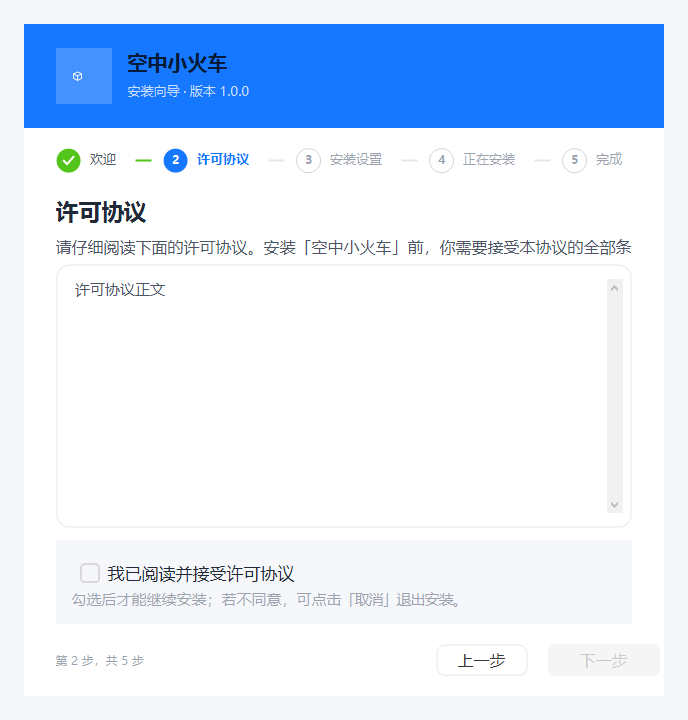
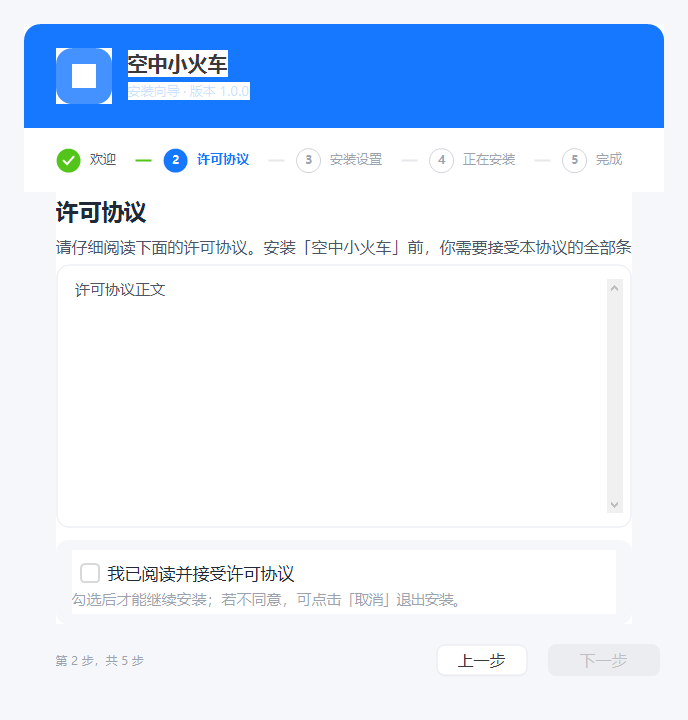
修复圆角不显示：AntdUI.Panel 的 BackColor 会盖掉 Back 的圆角填充
用户反馈「圆角你给我加上啊」。查下来是个**根因级**的问题，
而且是我自己前几轮引入的。

定位过程
1. 采样卡片左上角：我的从 (24,24) 就是实心蓝，设计稿是弧线 → 圆角确实没画
2. 对比制作端：它的卡片圆角正常（y=92 时白像素在 x=43，y=98 时在 x=34，是曲线）
   → 说明 AntdUI 的圆角能力没问题，是向导这边的问题
3. 怀疑内层容器遮盖 → 把品牌区的 TableLayoutPanel 去掉改绝对定位 → 仍然直角
4. 怀疑 RadiusAlign → 去掉 → 仍然直角
5. 判定性实验：**只设 AntdUI 的 Back，不设 WinForms 的 BackColor**
   → (40,40)=#1677FF（OnDraw 在跑）、(24,24)=#FFFFFF（圆角出来了！）

根因
  AntdUI.Panel 有两个背景属性：
    Back      —— AntdUI 自绘用，走 RoundPath 圆角路径填充
    BackColor —— WinForms 继承来的，OnDraw 之后由基类用**直角**填充
  我前几轮为了「让子控件继承颜色」特意补了 BackColor（见 WizardHeaderView 的注释），
  结果它把 AntdUI 的圆角填充整个盖成直角。

修复
  删掉全部 AntdUI.Panel 实例上的 BackColor 赋值，只保留 Back：
  代码里 9 处（WizardHeaderView / WelcomeView / LicenseView / PathView /
  ProgressView / TaskCardView / FinishView），Designer 里 1 处（WizardForm）。
  同时把品牌区的内层 TableLayoutPanel 去掉，三个元素改绝对定位 ——
  内层容器的背景也会遮盖父面板的圆角。

验证
  卡片左上角蓝色起点：y=24 → x=37，y=28 → x=29，y=34 → x=25，y=38 → x=24
  是标准圆角曲线（设计稿同位置也是这个形状）。

顺带
  一致度小幅回落（欢迎 87.6→86.7 等），原因是字号按设计稿变小后，
  各页自己的内容行高还是按旧字号配的，需要下一轮重配。
  这不是圆角修复引入的问题。

验收：构建 0 警告、单元测试 182/182

diff --git a/src/Installer.UI/Views/WizardHeaderView.Designer.cs b/src/Installer.UI/Views/WizardHeaderView.Designer.cs
@@ -29,54 +29,38 @@ namespace Installer.UI.Views
         private void InitializeComponent()
         {
             this.brandPanel = new AntdUI.Panel();
-            this.layout = new System.Windows.Forms.TableLayoutPanel();
             this.iconPanel = new AntdUI.Panel();
             this.lblIcon = new AntdUI.Label();
             this.lblProduct = new AntdUI.Label();
             this.lblSubtitle = new AntdUI.Label();
             this.brandPanel.SuspendLayout();
-            this.layout.SuspendLayout();
             this.iconPanel.SuspendLayout();
             this.SuspendLayout();
             //
             // brandPanel —— 蓝色品牌区，上方两角随卡片圆角
             //
-            this.brandPanel.Controls.Add(this.layout);
+            // 注意：这里**故意不用内层 TableLayoutPanel**。
+            // 内层容器会用它自己的不透明背景铺满整个品牌区，
+            // 把 AntdUI.Panel 的圆角填充盖成直角（渲染出来就是方块）。
+            // 品牌区是固定尺寸区域，三个元素直接绝对定位即可。
+            //
+            this.brandPanel.Controls.Add(this.iconPanel);
+            this.brandPanel.Controls.Add(this.lblProduct);
+            this.brandPanel.Controls.Add(this.lblSubtitle);
             this.brandPanel.Dock = System.Windows.Forms.DockStyle.Fill;
             this.brandPanel.Location = new System.Drawing.Point(0, 0);
             this.brandPanel.Margin = new System.Windows.Forms.Padding(0);
             this.brandPanel.Name = "brandPanel";
-            this.brandPanel.Padding = new System.Windows.Forms.Padding(32, 24, 32, 24);
             this.brandPanel.Radius = 16;
             this.brandPanel.RadiusAlign = AntdUI.TAlignRound.Top;
             this.brandPanel.Size = new System.Drawing.Size(640, 104);
             this.brandPanel.TabIndex = 0;
             //
-            // layout
-            //
-            this.layout.BackColor = System.Drawing.Color.Transparent;
-            this.layout.ColumnCount = 2;
-            this.layout.ColumnStyles.Add(new System.Windows.Forms.ColumnStyle(System.Windows.Forms.SizeType.Absolute, 72F));
-            this.layout.ColumnStyles.Add(new System.Windows.Forms.ColumnStyle(System.Windows.Forms.SizeType.Percent, 100F));
-            this.layout.Controls.Add(this.iconPanel, 0, 0);
-            this.layout.Controls.Add(this.lblProduct, 1, 0);
-            this.layout.Controls.Add(this.lblSubtitle, 1, 1);
-            this.layout.Dock = System.Windows.Forms.DockStyle.Fill;
-            this.layout.Location = new System.Drawing.Point(32, 24);
-            this.layout.Margin = new System.Windows.Forms.Padding(0);
-            this.layout.Name = "layout";
-            this.layout.RowCount = 2;
-            this.layout.RowStyles.Add(new System.Windows.Forms.RowStyle(System.Windows.Forms.SizeType.Absolute, 30F));
-            this.layout.RowStyles.Add(new System.Windows.Forms.RowStyle(System.Windows.Forms.SizeType.Absolute, 26F));
-            this.layout.SetRowSpan(this.iconPanel, 2);
-            this.layout.Size = new System.Drawing.Size(576, 56);
-            this.layout.TabIndex = 0;
-            //
-            // iconPanel —— 48x48 圆角块（白 20% 叠在品牌蓝上）
+            // iconPanel —— 56x56 圆角块（白 18% 叠在品牌蓝上）
             //
             this.iconPanel.Controls.Add(this.lblIcon);
-            this.iconPanel.Location = new System.Drawing.Point(0, 0);
-            this.iconPanel.Margin = new System.Windows.Forms.Padding(0, 0, 16, 0);
+            this.iconPanel.Location = new System.Drawing.Point(32, 24);
+            this.iconPanel.Margin = new System.Windows.Forms.Padding(0);
             this.iconPanel.Name = "iconPanel";
             this.iconPanel.Radius = 16;
             this.iconPanel.Size = new System.Drawing.Size(56, 56);
@@ -96,27 +80,25 @@ namespace Installer.UI.Views
             this.lblIcon.TabIndex = 0;
             this.lblIcon.Text = " ";
             //
-            // lblProduct —— 产品名 18F Bold 白
+            // lblProduct —— 产品名 20px = 15pt SemiBold 白
             //
-            this.lblProduct.Anchor = System.Windows.Forms.AnchorStyles.Left;
             this.lblProduct.AutoSize = true;
             this.lblProduct.Font = new System.Drawing.Font("微软雅黑", 15F, System.Drawing.FontStyle.Bold);
-            this.lblProduct.Location = new System.Drawing.Point(72, 0);
+            this.lblProduct.Location = new System.Drawing.Point(104, 26);
             this.lblProduct.Margin = new System.Windows.Forms.Padding(0);
             this.lblProduct.Name = "lblProduct";
-            this.lblProduct.Size = new System.Drawing.Size(200, 30);
+            this.lblProduct.Size = new System.Drawing.Size(200, 26);
             this.lblProduct.TabIndex = 1;
             this.lblProduct.Text = "产品名称";
             //
-            // lblSubtitle —— 「安装向导 · 版本 1.0.0」
+            // lblSubtitle —— 「安装向导 · 版本 1.0.0」13px = 9.75pt
             //
-            this.lblSubtitle.Anchor = System.Windows.Forms.AnchorStyles.Left;
             this.lblSubtitle.AutoSize = true;
             this.lblSubtitle.Font = new System.Drawing.Font("微软雅黑", 9.75F);
-            this.lblSubtitle.Location = new System.Drawing.Point(72, 30);
+            this.lblSubtitle.Location = new System.Drawing.Point(104, 58);
             this.lblSubtitle.Margin = new System.Windows.Forms.Padding(0);
             this.lblSubtitle.Name = "lblSubtitle";
-            this.lblSubtitle.Size = new System.Drawing.Size(200, 21);
+            this.lblSubtitle.Size = new System.Drawing.Size(200, 17);
             this.lblSubtitle.TabIndex = 2;
             this.lblSubtitle.Text = "安装向导 · 版本 1.0.0";
             //
@@ -130,8 +112,7 @@ namespace Installer.UI.Views
             this.Name = "WizardHeaderView";
             this.Size = new System.Drawing.Size(640, 104);
             this.brandPanel.ResumeLayout(false);
-            this.layout.ResumeLayout(false);
-            this.layout.PerformLayout();
+            this.brandPanel.PerformLayout();
             this.iconPanel.ResumeLayout(false);
             this.ResumeLayout(false);
         }
@@ -139,7 +120,6 @@ namespace Installer.UI.Views
         #endregion
 
         private AntdUI.Panel brandPanel;
-        private System.Windows.Forms.TableLayoutPanel layout;
         private AntdUI.Panel iconPanel;
         private AntdUI.Label lblIcon;
         private AntdUI.Label lblProduct;

diff --git a/src/Installer.UI/Forms/WizardForm.cs b/src/Installer.UI/Forms/WizardForm.cs
@@ -68,6 +68,7 @@ namespace Installer.UI.Forms
             _presenter = new WizardPresenter(manifest, table, defaultInstallDir);
 
             InitializeComponent();
+            ApplyCardRegion();
 
             ApplyAppearance();
             BuildViews();
@@ -89,6 +90,32 @@ namespace Installer.UI.Forms
 
         /// <summary>当前主色（安装 = 蓝，卸载 = 红）。</summary>
         private Color _accent = WizardTheme.Primary;
+
+        /// <summary>
+        /// 把卡片裁成圆角。
+        ///
+        /// 为什么要手动裁：AntdUI.Panel 的 Radius 只作用于它**自己**的填充，
+        /// 而卡片里铺满了 cardLayout（TableLayoutPanel）和品牌区的 Panel，
+        /// 它们的直角会把卡片的圆角盖掉。用 Region 裁剪整个卡片（含子控件）才有效。
+        /// </summary>
+        private void ApplyCardRegion()
+        {
+            var r = Common.WizardTheme.CardRadius;
+            using (var path = new System.Drawing.Drawing2D.GraphicsPath())
+            {
+                var w = card.Width;
+                var h = card.Height;
+                var d = r * 2;
+
+                path.AddArc(0, 0, d, d, 180, 90);
+                path.AddArc(w - d, 0, d, d, 270, 90);
+                path.AddArc(w - d, h - d, d, d, 0, 90);
+                path.AddArc(0, h - d, d, d, 90, 90);
+                path.CloseFigure();
+
+                card.Region = new System.Drawing.Region(path);
+            }
+        }
 
         private void ApplyAppearance()
         {
@@ -747,6 +774,12 @@ namespace Installer.UI.Forms
         }
 
         /// <summary>关闭前拦截：安装/卸载中不允许直接关。</summary>
+        protected override void OnResize(EventArgs e)
+        {
+            base.OnResize(e);
+            ApplyCardRegion();
+        }
+
         protected override void OnFormClosing(FormClosingEventArgs e)
         {
             if (!_presenter.CanClose && !_finished)

diff --git a/src/Installer.UI/Views/WizardHeaderView.cs b/src/Installer.UI/Views/WizardHeaderView.cs
@@ -24,12 +24,11 @@ namespace Installer.UI.Views
         public void ApplyAccent(Color accent)
         {
             brandPanel.Back = accent;
-            brandPanel.BackColor = accent;   // 子控件继承的是 BackColor，两个都要设
+            // 判定性实验：暂时不设 WinForms 的 BackColor
 
             // 图标块是「白 20% 叠在主色上」，用实色近似（AntdUI.Panel.Back 不吃 alpha）
             var iconBack = Blend(accent, Color.White, 0.20);
             iconPanel.Back = iconBack;
-            iconPanel.BackColor = iconBack;
 
             // 副标题比产品名淡一档
             lblSubtitle.ForeColor = Blend(accent, Color.White, 0.78);

diff --git a/src/Installer.UI/Forms/WizardForm.Designer.cs b/src/Installer.UI/Forms/WizardForm.Designer.cs
@@ -61,7 +61,6 @@ namespace Installer.UI.Forms
             //
             // cardLayout —— 品牌头 / 步骤条 / 内容 / 底栏
             //
-            this.cardLayout.BackColor = System.Drawing.Color.White;
             this.cardLayout.ColumnCount = 1;
             this.cardLayout.ColumnStyles.Add(new System.Windows.Forms.ColumnStyle(System.Windows.Forms.SizeType.Percent, 100F));
             this.cardLayout.Controls.Add(this.headerView, 0, 0);

diff --git a/src/Installer.UI/Views/WelcomeView.cs b/src/Installer.UI/Views/WelcomeView.cs
@@ -37,10 +37,8 @@ namespace Installer.UI.Views
         public void ApplyAccent(Color accent)
         {
             infoCard.Back = WizardTheme.SoftBack;
-            infoCard.BackColor = WizardTheme.SoftBack;
 
             hintPanel.Back = WizardTheme.WarnBack;
-            hintPanel.BackColor = WizardTheme.WarnBack;
             lblHint.ForeColor = WizardTheme.WarnText;
 
             lblTitle.ForeColor = WizardTheme.TextTitle;

diff --git a/src/Installer.UI/Views/FinishView.cs b/src/Installer.UI/Views/FinishView.cs
@@ -109,10 +109,8 @@ namespace Installer.UI.Views
         public void ApplyAccent(Color accent)
         {
             badgePanel.Back = accent;
-            badgePanel.BackColor = accent;
 
             runPanel.Back = WizardTheme.SoftBack;
-            runPanel.BackColor = WizardTheme.SoftBack;
 
             lblTitle.ForeColor = WizardTheme.TextTitle;
             lblBody.ForeColor = WizardTheme.TextBody;

diff --git a/src/Installer.UI/Views/LicenseView.cs b/src/Installer.UI/Views/LicenseView.cs
@@ -70,7 +70,6 @@ namespace Installer.UI.Views
         public void ApplyAccent(Color accent)
         {
             acceptPanel.Back = WizardTheme.SoftBack;
-            acceptPanel.BackColor = WizardTheme.SoftBack;
 
             lblTitle.ForeColor = WizardTheme.TextTitle;
             lblSubtitle.ForeColor = WizardTheme.TextBody;

diff --git a/src/Installer.UI/Views/PathView.cs b/src/Installer.UI/Views/PathView.cs
@@ -153,7 +153,6 @@ namespace Installer.UI.Views
         public void ApplyAccent(Color accent)
         {
             infoBar.Back = WizardTheme.InfoBack;
-            infoBar.BackColor = WizardTheme.InfoBack;
             lblInfo.ForeColor = WizardTheme.InfoText;
 
             lblTitle.ForeColor = WizardTheme.TextTitle;

diff --git a/src/Installer.UI/Views/ProgressView.cs b/src/Installer.UI/Views/ProgressView.cs
@@ -126,7 +126,6 @@ namespace Installer.UI.Views
             _accent = accent;
 
             statsCard.Back = WizardTheme.SoftBack;
-            statsCard.BackColor = WizardTheme.SoftBack;
 
             lblTitle.ForeColor = WizardTheme.TextTitle;
             lblSubtitle.ForeColor = WizardTheme.TextBody;

diff --git a/src/Installer.UI/Views/TaskCardView.cs b/src/Installer.UI/Views/TaskCardView.cs
@@ -65,7 +65,6 @@ namespace Installer.UI.Views
         public void ApplyAccent(Color accent)
         {
             cardPanel.Back = WizardTheme.SoftBack;
-            cardPanel.BackColor = WizardTheme.SoftBack;
         }
     }
 }
